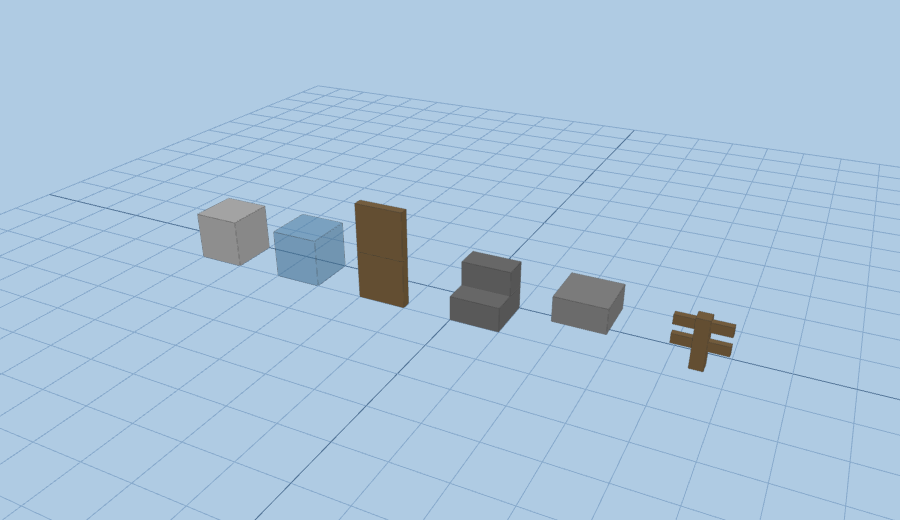
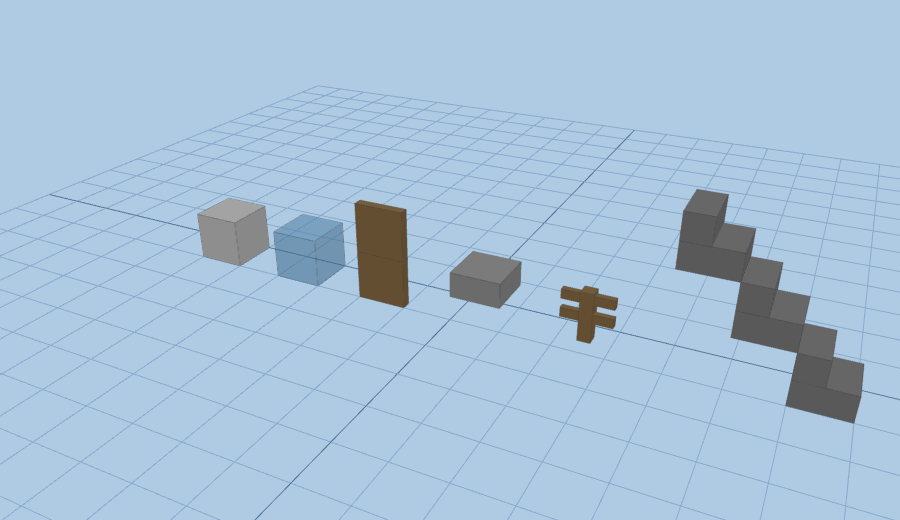
Emit real oriented stairs (and optional floor slabs) from the voxelizer
Stairs previously came through as stepped stone-brick cubes (a cube-only
BlockCraft carry-over). ifc_to_voxels.py now post-processes the voxel grid to
refine them into real Minecraft block-states, which render as true models in
the minecraft-web-client renderer:

- refine_stairs (--stairs real, default): each exposed stair-class cube whose
  neighbour column rises one level becomes an oriented *_stairs block, facing
  the ascent direction (grid +x/-x/+y/-y -> east/west/north/south, verified
  against the unpack transform). Flat landings and ridges stay full cubes;
  --stairs cube restores the old behaviour.
- refine_floor_slabs (--floor-slabs, opt-in): thin single-voxel floor plates
  (air above and below) become bottom slabs; floors on structure stay full.

On the real UNBC IFC (1 m): 569 oriented stairs across all four facings
(199 E / 127 N / 74 S / 169 W) plus 48,307 slabs, all round-tripping through
the client's Anvil loader. Updated RENDERERS.md and the demo render (now shows
a real staircase run).

Claude-Session: https://claude.ai/code/session_01Qxn8UA8yP8wKrGmyVHYHAB

Changed region(s): [[0.7467, 0.3692, 0.9644, 0.8308], [0.4978, 0.4923, 0.7156, 0.6769]]

diff --git a/renderers/mcweb/render/bake.js b/renderers/mcweb/render/bake.js
@@ -48,9 +48,13 @@ const placements=[
   ['minecraft:light_blue_stained_glass', [2,0,0]],
   ['minecraft:oak_door[facing=north,half=lower,hinge=left,open=false]', [4,0,0]],
   ['minecraft:oak_door[facing=north,half=upper,hinge=left,open=false]', [4,1,0]],
-  ['minecraft:stone_brick_stairs[facing=north,half=bottom,shape=straight]', [6,0,0]],
-  ['minecraft:smooth_stone_slab[type=top]', [8,0,0]],
-  ['minecraft:oak_fence[east=true,west=true]', [10,0,0]],
+  ['minecraft:smooth_stone_slab[type=top]', [6,0,0]],
+  ['minecraft:oak_fence[east=true,west=true]', [8,0,0]],
+  // a real staircase run (facing west = ascending toward -x), exactly what the
+  // voxelizer's stair refinement emits from a stepped ramp:
+  ['minecraft:stone_brick_stairs[facing=west,half=bottom,shape=straight]', [12,0,0]],
+  ['minecraft:stone_brick_stairs[facing=west,half=bottom,shape=straight]', [11,1,0]],
+  ['minecraft:stone_brick_stairs[facing=west,half=bottom,shape=straight]', [10,2,0]],
 ]
 
 const scene=[]

diff --git a/scripts/ifc_to_voxels.py b/scripts/ifc_to_voxels.py
@@ -10,6 +10,10 @@ What this does beyond a plain mesh voxelizer:
 * Maps each IFC element category to a sensible Minecraft block (glass for
   glazing, concrete for walls, smooth stone for slabs, ...) on a shared integer
   voxel grid, resolving overlaps with a per-class priority rule.
+* REAL STAIRS: stepped stair-class cubes are refined into oriented
+  `minecraft:*_stairs` blocks (facing from the ascent direction); thin floor
+  plates can become `*_slab`s with --floor-slabs. Both render as real block
+  models in the minecraft-web-client renderer (see RENDERERS.md).
 * FUNCTIONAL DOORS: every IfcDoor becomes a real, openable `minecraft:*_door`
   (two halves, oriented to the wall) sitting in a walk-through opening, instead
   of a solid block plugging the doorway. IfcRailing -> oak_fence (renders as a
@@ -90,6 +94,19 @@ CLASS_PRIORITY = [
 
 # Minecraft block id used for functional doors (must be a *_door)
 DOOR_BLOCK = "minecraft:oak_door"
+
+# Refinement targets: the cube block a class voxelizes to -> its real shaped
+# block-state. Stairs replace the stepped `stair`-class cubes; slabs replace
+# thin single-voxel `floor`-class plates. Both render as real models in the
+# minecraft-web-client renderer (see RENDERERS.md).
+STAIR_CUBE = CLASS_BLOCKS["stair"]           # minecraft:stone_bricks
+STAIR_SHAPED = "minecraft:stone_brick_stairs"
+FLOOR_CUBE = CLASS_BLOCKS["floor"]           # minecraft:smooth_stone
+SLAB_SHAPED = "minecraft:smooth_stone_slab"
+
+# grid horizontal ascent (dx, dy in plan) -> Minecraft stair `facing`
+# (verified against the unpack transform mc = [x, z_up, -y]).
+GRID_TO_FACING = {(1, 0): "east", (-1, 0): "west", (0, 1): "north", (0, -1): "south"}
 
 
 def class_for(ifc_type: str) -> str:
@@ -296,6 +313,72 @@ def place_doors(winner, grid, door_verts, mode):
     return placed
 
 
+def refine_stairs(winner, grid):
+    """Replace stepped `stair`-class cubes with oriented Minecraft stair blocks.
+
+    A voxelized staircase is a stepped ramp of cubes. For each stair cube whose
+    top is exposed (nothing directly above), we look at the four horizontal
+    neighbours: the direction whose column rises (a cube one level up) is the
+    ascent direction, which is exactly the Minecraft stair `facing`. Cells with
+    no rise (flat landings) or rises on 3+/opposite sides (ridges) stay full
+    cubes. Underside cubes keep their block (something sits above them).
+    Returns the number of cubes converted.
+    """
+    X, plane = grid["X"], grid["plane"]
+
+    def key(x, y, z):
+        return int(x) + X * int(y) + plane * int(z)
+
+    occupied = set(winner.keys())
+    stair_keys = [k for k, (_, b) in winner.items() if b == STAIR_CUBE]
+    converted = 0
+    for k in stair_keys:
+        z = k // plane
+        rem = k - z * plane
+        y = rem // X
+        x = rem - y * X
+        if key(x, y, z + 1) in occupied:           # top not exposed -> underside cube
+            continue
+        rises = [(dx, dy) for (dx, dy) in GRID_TO_FACING
+                 if key(x + dx, y + dy, z + 1) in occupied]
+        if not rises or len(rises) >= 3:            # flat landing / ridge -> leave cube
+            continue
+        # prefer the rise whose opposite (downhill) side is open tread
+        facing_dir = next((d for d in rises if key(x - d[0], y - d[1], z) not in occupied), rises[0])
+        facing = GRID_TO_FACING[facing_dir]
+        winner[k] = (winner[k][0], f"{STAIR_SHAPED}[facing={facing},half=bottom,shape=straight]")
+        converted += 1
+    return converted
+
+
+def refine_floor_slabs(winner, grid):
+    """Convert thin, single-voxel `floor`-class plates to bottom slabs.
+
+    A floor plate that is one voxel thick with air directly above and below
+    (e.g. a balcony/landing plate, not a thick structural slab resting on
+    something) is half-height in reality; a full cube over-thickens it. Floors
+    that sit on structure (cube below) or stack (cube above) stay full.
+    Returns the number of cubes converted.
+    """
+    X, plane = grid["X"], grid["plane"]
+
+    def key(x, y, z):
+        return int(x) + X * int(y) + plane * int(z)
+
+    occupied = set(winner.keys())
+    floor_keys = [k for k, (_, b) in winner.items() if b == FLOOR_CUBE]
+    converted = 0
+    for k in floor_keys:
+        z = k // plane
+        rem = k - z * plane
+        y = rem // X
+        x = rem - y * X
+        if key(x, y, z + 1) not in occupied and key(x, y, z - 1) not in occupied:
+            winner[k] = (winner[k][0], f"{SLAB_SHAPED}[type=bottom]")
+            converted += 1
+    return converted
+
+
 def unpack_and_write(winner, grid, out_dir):
     X, plane, pitch = grid["X"], grid["plane"], grid["pitch"]
     keys = np.fromiter(winner.keys(), dtype=np.int64, count=len(winner))
@@ -334,6 +417,10 @@ def main() -> None:
     ap.add_argument("--pitch", type=float, default=1.0, help="Voxel size in METRES")
     ap.add_argument("--doors", choices=["functional", "air", "solid"], default="functional",
                     help="how to represent IfcDoor (default: functional openable door)")
+    ap.add_argument("--stairs", choices=["real", "cube"], default="real",
+                    help="'real' = oriented *_stairs blocks (default); 'cube' = stepped stone-brick cubes")
+    ap.add_argument("--floor-slabs", action="store_true",
+                    help="convert thin single-voxel floor plates to bottom slabs (default: full cubes)")
     ap.add_argument("--fill", action="store_true",
                     help="Solid-fill each class (rarely wanted; meaningless for non-watertight IFC)")
     ap.add_argument("--out-dir", type=Path, default=Path("out/unbc"))
@@ -356,6 +443,15 @@ def main() -> None:
     winner, grid, per_class = voxelize_solids(meshes, door_verts, args.pitch, args.fill)
     placed = place_doors(winner, grid, door_verts, args.doors)
     print(f"Placed {placed} {args.doors} doors", flush=True)
+
+    stairs_converted = slabs_converted = 0
+    if args.stairs == "real":
+        stairs_converted = refine_stairs(winner, grid)
+        print(f"Refined {stairs_converted} stair cubes -> oriented stairs", flush=True)
+    if args.floor_slabs:
+        slabs_converted = refine_floor_slabs(winner, grid)
+        print(f"Refined {slabs_converted} thin floor cubes -> slabs", flush=True)
+
     write_stats = unpack_and_write(winner, grid, out_dir)
 
     summary = {
@@ -364,6 +460,9 @@ def main() -> None:
         "pitch_m": args.pitch,
         "door_mode": args.doors,
         "doors_placed": placed,
+        "stairs_mode": args.stairs,
+        "stairs_converted": stairs_converted,
+        "slabs_converted": slabs_converted,
         "world_bounds_min_m": grid["all_min"].tolist(),
         "model_size_m_xyz": (grid["dims"] * args.pitch).tolist(),
         **ex_stats,

diff --git a/RENDERERS.md b/RENDERERS.md
@@ -75,46 +75,48 @@ For a real building, point it at the pipeline output:
 ### Verified
 
 `verify_save.js` round-trips the exported save through the client's own Anvil
-loader and reports which shapes survived. On the **real UNBC building** (`make
-p1` → 167,585 blocks, 375 chunks):
+loader and reports which shapes survived. On the **real UNBC building**
+(`ifc_to_voxels.py --pitch 1.0 --floor-slabs` → 167,578 blocks, 375 chunks):
 
 ```
 PASS  functional doors round-trip  (halves=lower/upper, facings=east/south)
-  --   real stair block-states: absent in this model
-  --   real slabs: absent in this model
+PASS  real stair block-states: 569 blocks
+PASS  real slabs: 48307 blocks
 PASS  fence railings: 2409 blocks
 PASS  stained-glass glazing: 2710 blocks
 all required checks passed
 ```
 
-and on the **demo fixture** (which exercises every shape the exporter handles):
+The 569 stairs carry all four facings (199 east / 127 north / 74 south / 169
+west) — each staircase oriented by its own ascent direction. (Drop `--floor-slabs`
+to keep floors as full `smooth_stone`; stairs are on by default.)
 
-```
-PASS  functional doors round-trip  (halves=lower/upper, facings=north)
-PASS  real stair block-states: 2 blocks
-PASS  real slabs: 49 blocks
-PASS  stained-glass glazing: 19 blocks
-all required checks passed
-```
+### Real stairs and slabs from the voxelizer
 
-### What the current pipeline emits (and the stairs/slabs gap)
+A voxelized staircase is a stepped ramp of cubes. `scripts/ifc_to_voxels.py`
+now post-processes the grid (`--stairs real`, the default) to turn each exposed
+stair-class cube into an **oriented `*_stairs` block**: it reads the four
+horizontal neighbours, and the direction whose column rises one level is the
+Minecraft `facing` (flat landings and ridges stay full cubes). So a real
+staircase renders as actual stairs, not stepped cubes. `--stairs cube` restores
+the old behaviour.
 
-The **exporter and renderer fully support** real stairs and slabs — the demo
-fixture proves both round-trip and render (see the image below). But the
-**voxelizer** (`scripts/ifc_to_voxels.py`) doesn't emit them yet: it maps
-`IfcStair → minecraft:stone_bricks` (cubes) and floors → `minecraft:smooth_stone`
-(cubes), a carry-over from the cube-only BlockCraft era. So a real building
-currently renders stairs as stepped stone-brick cubes here too — *not* an
-exporter limit. Emitting true `*_stairs[facing,half,shape]` / `*_slab[type]`
-block-states needs per-cell orientation from the voxelizer; it's the natural
-next enhancement now that a renderer can display them. (Doors, glass, concrete
-and the new `oak_fence` railings already flow through as real block-states.)
+Thin, single-voxel **floor plates** (air above *and* below — balconies/landings,
+not thick structural slabs) become `*_slab[type=bottom]` with `--floor-slabs`.
+It's opt-in because a 1 m voxelization can't otherwise tell a half-slab from a
+full block; thick floors that sit on structure stay full cubes.
+
+Doors, glass, concrete and `oak_fence` railings already flow through as real
+block-states, so with real stairs the whole palette now renders as true
+Minecraft models in this renderer. (Corner stairs use `shape=straight`; explicit
+`inner/outer` mitering is a possible future refinement.)
 
 `render/` bakes the **real vanilla block models** for those states and
 renders them headlessly (Chromium/WebGL — the same three.js pipeline the client
 uses). Left→right: concrete cube, translucent glass, a **thin two-high door
-panel**, a **stepped stair**, a **half-height slab**, and a **post-and-rail
-fence** — none of which BlockCraft can draw:
+panel**, a **half-height slab**, a **post-and-rail fence**, and a **real
+staircase run** (three oriented `*_stairs` — what the voxelizer emits from a
+stepped ramp) — none of which BlockCraft can draw:
 
 ![real block models rendered from our exported block-states](renderers/mcweb/docs/demo_render.png)
 